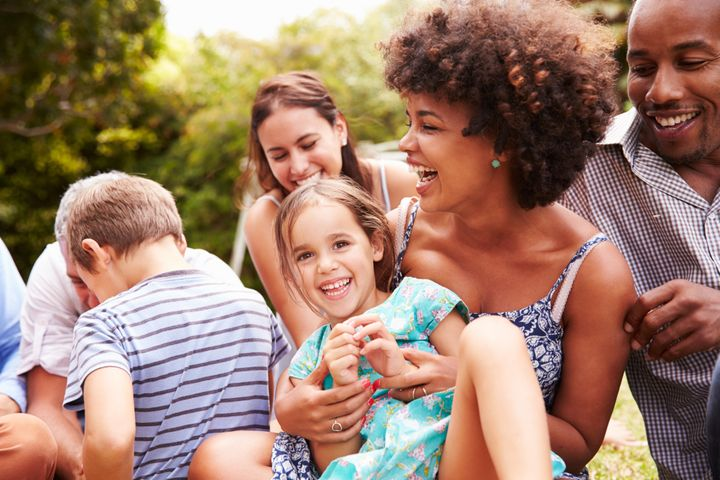
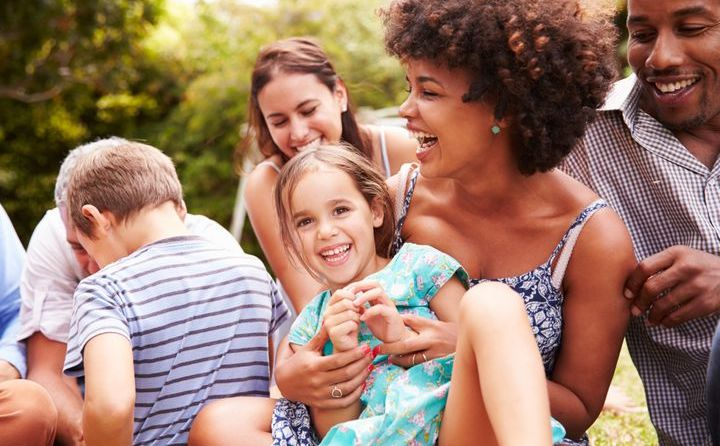
image paths fixed, parents img cropped

diff --git a/index.html b/index.html
@@ -158,7 +158,7 @@
 
             <!-- Image -->
             <div class="img-half img-half-left">
-              <img src="./images/stat 1.png" alt="..." class="img-fluid">
+              <img src="./images/Stat1.png" alt="..." class="img-fluid">
             </div>
 
           </div>
@@ -189,7 +189,7 @@
 
             <!-- Image -->
             <div class="img-half">
-              <img src="./images/stat 2.png" alt="..." class="img-fluid">
+              <img src="./images/Stat2.png" alt="..." class="img-fluid">
             </div>
 
           </div>
@@ -220,7 +220,7 @@
 
             <!-- Image -->
             <div class="img-half img-half-left">
-              <img src="./images/stat 3.png" alt="..." class="img-fluid">
+              <img src="./images/Stat3.png" alt="..." class="img-fluid">
             </div>
 
           </div>
@@ -327,7 +327,7 @@
 
               <!-- Image -->
               <div class="card-img-top">
-                <img src="./images/family.jpeg" alt="FamilyImage" class="img-fluid parents-img">
+                <img src="./images/family.jpeg" alt="FamilyImage" class="img-fluid">
               </div>
 
               <!-- Body -->

diff --git a/styles.css b/styles.css
@@ -16,7 +16,7 @@ p {
 
 /*sets hover color of nav bar buttons*/
 .navbar-light .navbar-nav .nav-link:focus{
-    color: black;
+  color: black;
 }
 .navbar-dark .navbar-nav .nav-link:focus{
   color: #ffffff;
@@ -49,7 +49,7 @@ p {
 }
 
 .navbar-brand{
-    padding:0px;
+  padding:0px;
 }
 
 .ec-bg-blue{
@@ -64,11 +64,4 @@ p {
 .banner-link:hover{
   color: #f5ba4b;
   text-decoration: none;
-}
-
-/* keep height same as other static images */
-.parents-img {
-  height: 168.68px;
-  width: 272px;
-  object-fit: cover;
 }
